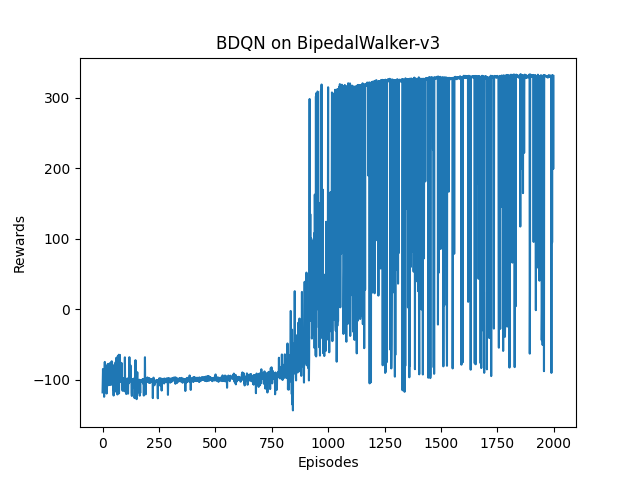
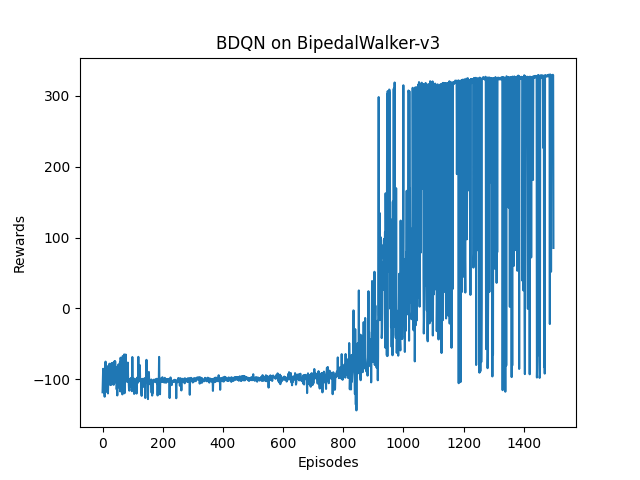
change loss function and adjust per.py

diff --git a/per.py b/per.py
@@ -1,5 +1,6 @@
 import random
 import numpy as np
+import torch
 
 
 # SumTree
@@ -73,9 +74,11 @@ class Memory:  # stored as ( s, a, r, s_ ) in SumTree
     beta = 0.4
     beta_increment_per_sampling = 0.001
 
-    def __init__(self, capacity):
+    def __init__(self, capacity, action_dim, device):
         self.tree = SumTree(capacity)
         self.capacity = capacity
+        self.action_dim = action_dim
+        self.device = device
 
     def _get_priority(self, error):
         return (np.abs(error) + self.e) ** self.a
@@ -91,6 +94,8 @@ class Memory:  # stored as ( s, a, r, s_ ) in SumTree
         priorities = []
 
         self.beta = np.min([1., self.beta + self.beta_increment_per_sampling])
+        state_lst, reward_lst, next_state_lst, done_mask_lst = [], [], [], []
+        actions_lst = [[] for _ in range(self.action_dim)]
 
         for i in range(n):
             a = segment * i
@@ -98,6 +103,14 @@ class Memory:  # stored as ( s, a, r, s_ ) in SumTree
 
             s = random.uniform(a, b)
             (idx, p, data) = self.tree.get(s)
+            state, actions, reward, next_state, done_mask = data
+            state_lst.append(state)
+            for i in range(self.action_dim):
+                actions_lst[i].append(actions[i])
+            reward_lst.append([reward])
+            next_state_lst.append(next_state)
+            done_mask_lst.append([done_mask])
+
             priorities.append(p)
             batch.append(data)
             idxs.append(idx)
@@ -106,7 +119,12 @@ class Memory:  # stored as ( s, a, r, s_ ) in SumTree
         is_weight = np.power(self.tree.n_entries * sampling_probabilities, -self.beta)
         is_weight /= is_weight.max()
 
-        return batch, idxs, is_weight
+        state_lst = torch.tensor(np.array(state_lst), dtype=torch.float).to(self.device)
+        actions_lst = [torch.tensor(x, dtype=torch.float).to(self.device) for x in actions_lst]
+        reward_lst = torch.tensor(np.array(reward_lst), dtype=torch.float).to(self.device)
+        next_state_lst = torch.tensor(np.array(next_state_lst), dtype=torch.float).to(self.device)
+        done_mask_lst = torch.tensor(np.array(done_mask_lst), dtype=torch.float).to(self.device)
+        return idxs, is_weight, state_lst, actions_lst, reward_lst, next_state_lst, done_mask_lst
 
     def update(self, idx, error):
         p = self._get_priority(error)

diff --git a/utils.py b/utils.py
@@ -26,11 +26,15 @@ class ReplayBuffer:
             reward_lst.append([reward])
             next_state_lst.append(next_state)
             done_mask_lst.append([done_mask])
+        
+        state_lst = torch.tensor(np.array(state_lst), dtype=torch.float).to(self.device)
         actions_lst = [torch.tensor(x, dtype=torch.float).to(self.device) for x in actions_lst]
-        return torch.tensor(np.array(state_lst), dtype=torch.float).to(self.device), \
-            actions_lst, torch.tensor(np.array(reward_lst), dtype=torch.float).to(self.device), \
-            torch.tensor(np.array(next_state_lst), dtype=torch.float).to(self.device), \
-            torch.tensor(np.array(done_mask_lst), dtype=torch.float).to(self.device)
+        reward_lst = torch.tensor(np.array(reward_lst), dtype=torch.float).to(self.device)
+        next_state_lst = torch.tensor(np.array(next_state_lst), dtype=torch.float).to(self.device)
+        done_mask_lst = torch.tensor(np.array(done_mask_lst), dtype=torch.float).to(self.device)
+
+        return state_lst, actions_lst, reward_lst, next_state_lst, done_mask_lst
+            
 
     def size(self):
         return len(self.buffer)

diff --git a/agent.py b/agent.py
@@ -36,10 +36,10 @@ class BQN(nn.Module):
         # max_next_q_values = self.q(next_state)  # double dqn
         max_next_q_values = self.target_q(next_state)  # normal dqn
         max_next_q_values = torch.stack(max_next_q_values).transpose(0, 1)
-        max_next_q_values = max_next_q_values.max(-1, keepdim=True)[0]
-        q_target = (done_mask * gamma * max_next_q_values.mean(1) + reward)
+        max_next_q_values = max_next_q_values.max(-1, keepdim=True)[0].squeeze(-1)
+        q_target = (done_mask * gamma * max_next_q_values + reward)
 
-        loss = F.mse_loss(q_values, q_target.repeat(1, action_dim))
+        loss = F.mse_loss(q_values, q_target)
 
         self.optimizer.zero_grad()
         loss.backward()
